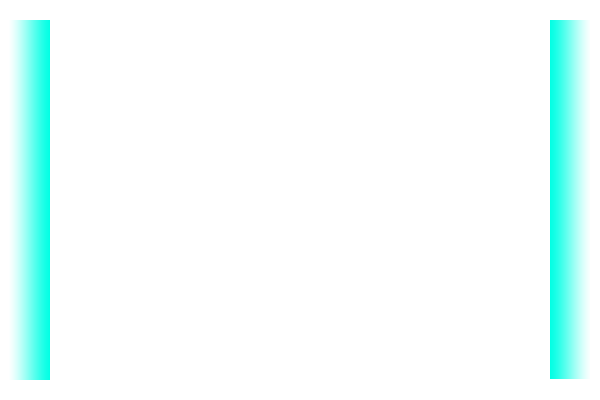
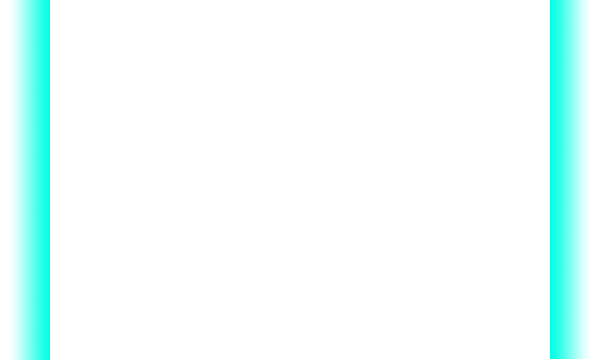
Graphical improvements & moved 'death zone'

diff --git a/Game.cpp b/Game.cpp
@@ -40,14 +40,12 @@ Game::Game()
     ballsLeftText.setCharacterSize(32);                                   //
     ballsLeftText.setColor(sf::Color(255, 255, 0));                       //
     //======================================================================
-
-    deathSpace.setFillColor(sf::Color(250, 20, 20, 250)); //Ustawienie koloru prostokąta reprezentujacego obszar niszczenia piłek
 }
 uint16_t Game::mainLoop()
 {
     framesSprite.setTexture(framesTexture);
-    framesSprite.setPosition(0.f, 10.f);
-    framesSprite.setScale(4.f / 3.f, 4.35f / 3.f);
+    framesSprite.setPosition(0.f, 0.f);
+    framesSprite.setScale(4.f / 3.f, 5.05f / 3.f);
 
     backgroundOffsetRight = true;
     backgroundOffset = 0.f;
@@ -63,10 +61,7 @@ uint16_t Game::mainLoop()
     player.points = 0;                             //Wyzerowanie punktów
     player.combo = 0;                              //Wyzerowanie "combo"
 
-    deathSpace.setSize(sf::Vector2f(window.getView().getSize().x, 40));
-    deathSpace.setOrigin(0, 40);
-    deathSpace.setPosition(0, window.getView().getSize().y);
-    player.setPosition(sf::Vector2f(window.getView().getSize().x / 2.f, window.getView().getSize().y - 40));
+    player.setPosition(sf::Vector2f(window.getView().getSize().x / 2.f, window.getView().getSize().y - 8));
 
     ball = Ball(10.f, sf::Vector2f(window.getView().getSize().x / 2.f, window.getView().getSize().y / 2.f), colors[rand() % colors.size()], &ballTexture);
 
@@ -118,7 +113,6 @@ uint16_t Game::mainLoop()
         }
 
         window.draw(background);
-        window.draw(deathSpace);
         window.draw(framesSprite);
 
         sf::Vector2f diff = player.getPosition();
@@ -133,17 +127,17 @@ uint16_t Game::mainLoop()
         pointsText.setPosition(window.getView().getSize().x / 2.f - (pointsText.getGlobalBounds().width / 2.f), 0);
 
         comboText.setString("combo: " + toString((int) player.combo + 1) + "x");
-        comboText.setPosition(window.getView().getSize().x / 10.f * 9.f - (pointsText.getGlobalBounds().width / 2.f), 0);
+        comboText.setPosition(window.getView().getSize().x - 75 - pointsText.getGlobalBounds().width, 0);
 
         ballsLeftText.setString("balls left: " + toString(player.ballsLeft - 1));
-        ballsLeftText.setPosition(10, 0);
+        ballsLeftText.setPosition(75, 0);
 
 
         window.draw(ballsLeftText);
         window.draw(pointsText);
         window.draw(comboText);
 
-        ball.update(sf::FloatRect(60, 0, window.getView().getSize().x - 120, window.getView().getSize().y));
+        ball.update(sf::FloatRect(60, 0, window.getView().getSize().x - 120, window.getView().getSize().y + 50));
         if(ball.collision(player, 1.02f, diff / -4.f))
             player.combo = 0;
 
@@ -157,10 +151,10 @@ uint16_t Game::mainLoop()
                 player.combo++;
             }
         }
-        if(ball.collision(deathSpace))
+        if(ball.getPosition().y - ball.getRadius() > window.getSize().y)
         {
             ball = Ball(10.f, sf::Vector2f(window.getView().getSize().x / 2.f, window.getView().getSize().y / 2.f), colors[rand() % colors.size()], &ballTexture);
-            player.setPosition(sf::Vector2f(window.getView().getSize().x / 2.f, window.getView().getSize().y - 40));
+            player.setPosition(sf::Vector2f(window.getView().getSize().x / 2.f, window.getView().getSize().y - 8));
             player.combo = 0;
 
             player.ballsLeft--;

diff --git a/headers/Game.hpp b/headers/Game.hpp
@@ -19,7 +19,6 @@
 class Game //Klasa odpowiadająca za rozgrywkę
 {
 private:
-    sf::RectangleShape deathSpace;      //Obszar niszczenia spadających piłek
     std::vector<Brick> bricks;          //Cegły do zniszczenia
     Player             player;          //Gracz
     Ball               ball;            //Piłka

diff --git a/headers/Ball.hpp b/headers/Ball.hpp
@@ -23,6 +23,9 @@ public:
 
     virtual void draw(sf::RenderTarget&, sf::RenderStates) const; //Funkcja z sf::Drawable, niezbędna do window.draw(instancja_klasy_Ball)
 
+    float getRadius();
+    sf::Vector2f getPosition();
+
     sf::Vector2f getMomentum();
 };
 

diff --git a/Ball.cpp b/Ball.cpp
@@ -96,3 +96,13 @@ sf::Vector2f Ball::getMomentum()
 {
     return momentum;
 }
+
+float Ball::getRadius()
+{
+    return radiaus;
+}
+
+sf::Vector2f Ball::getPosition()
+{
+    return shape.getPosition();
+}
